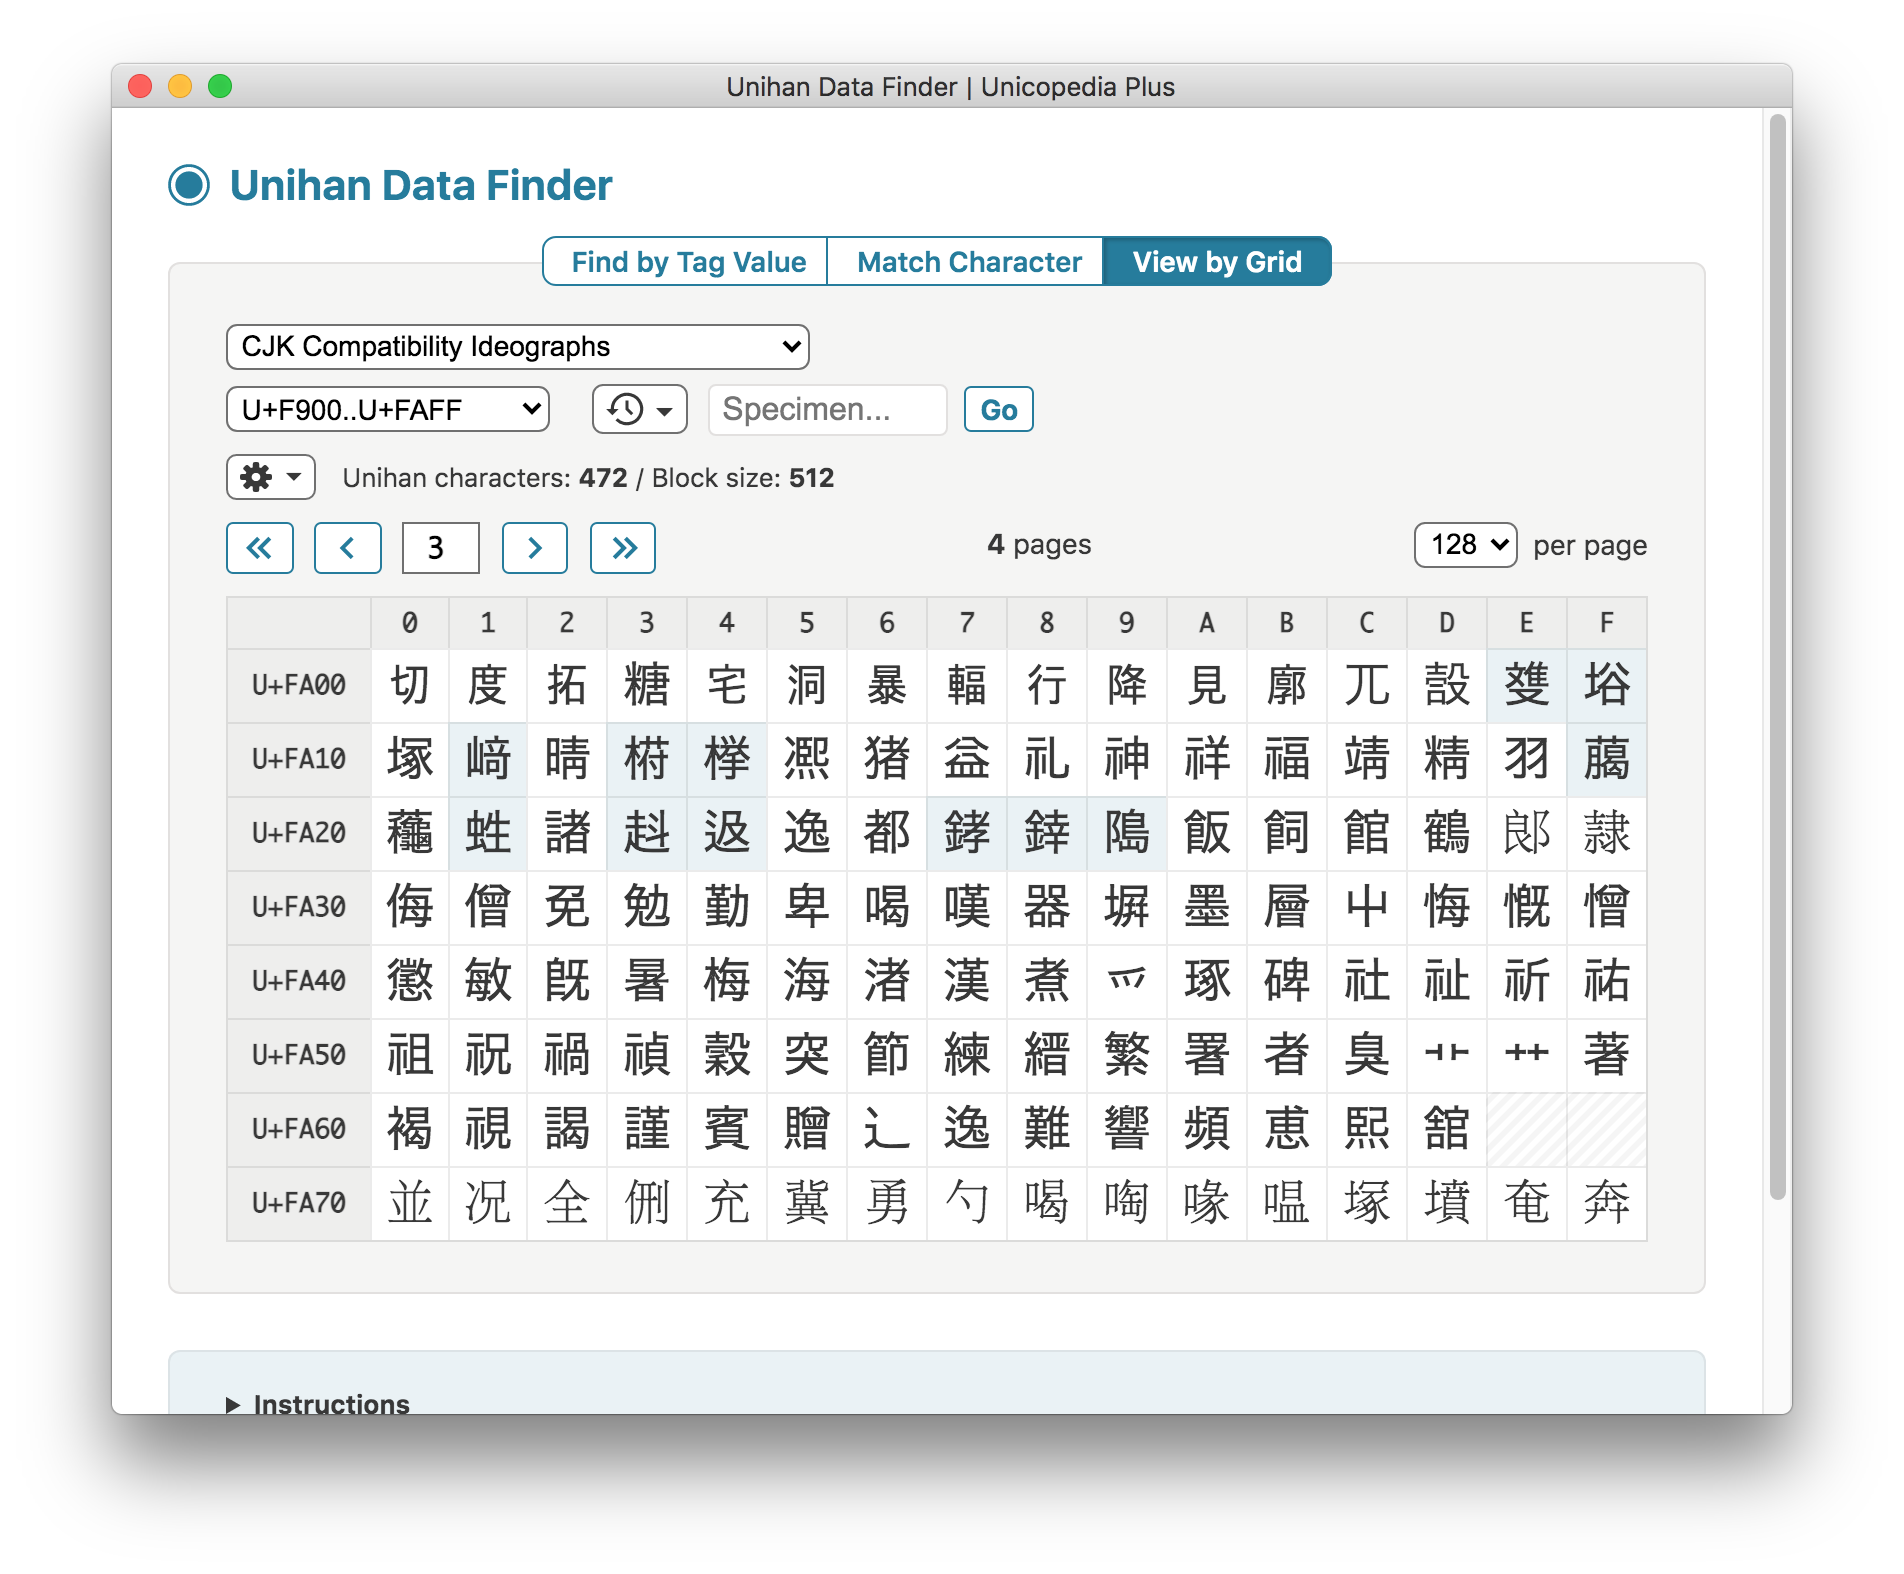
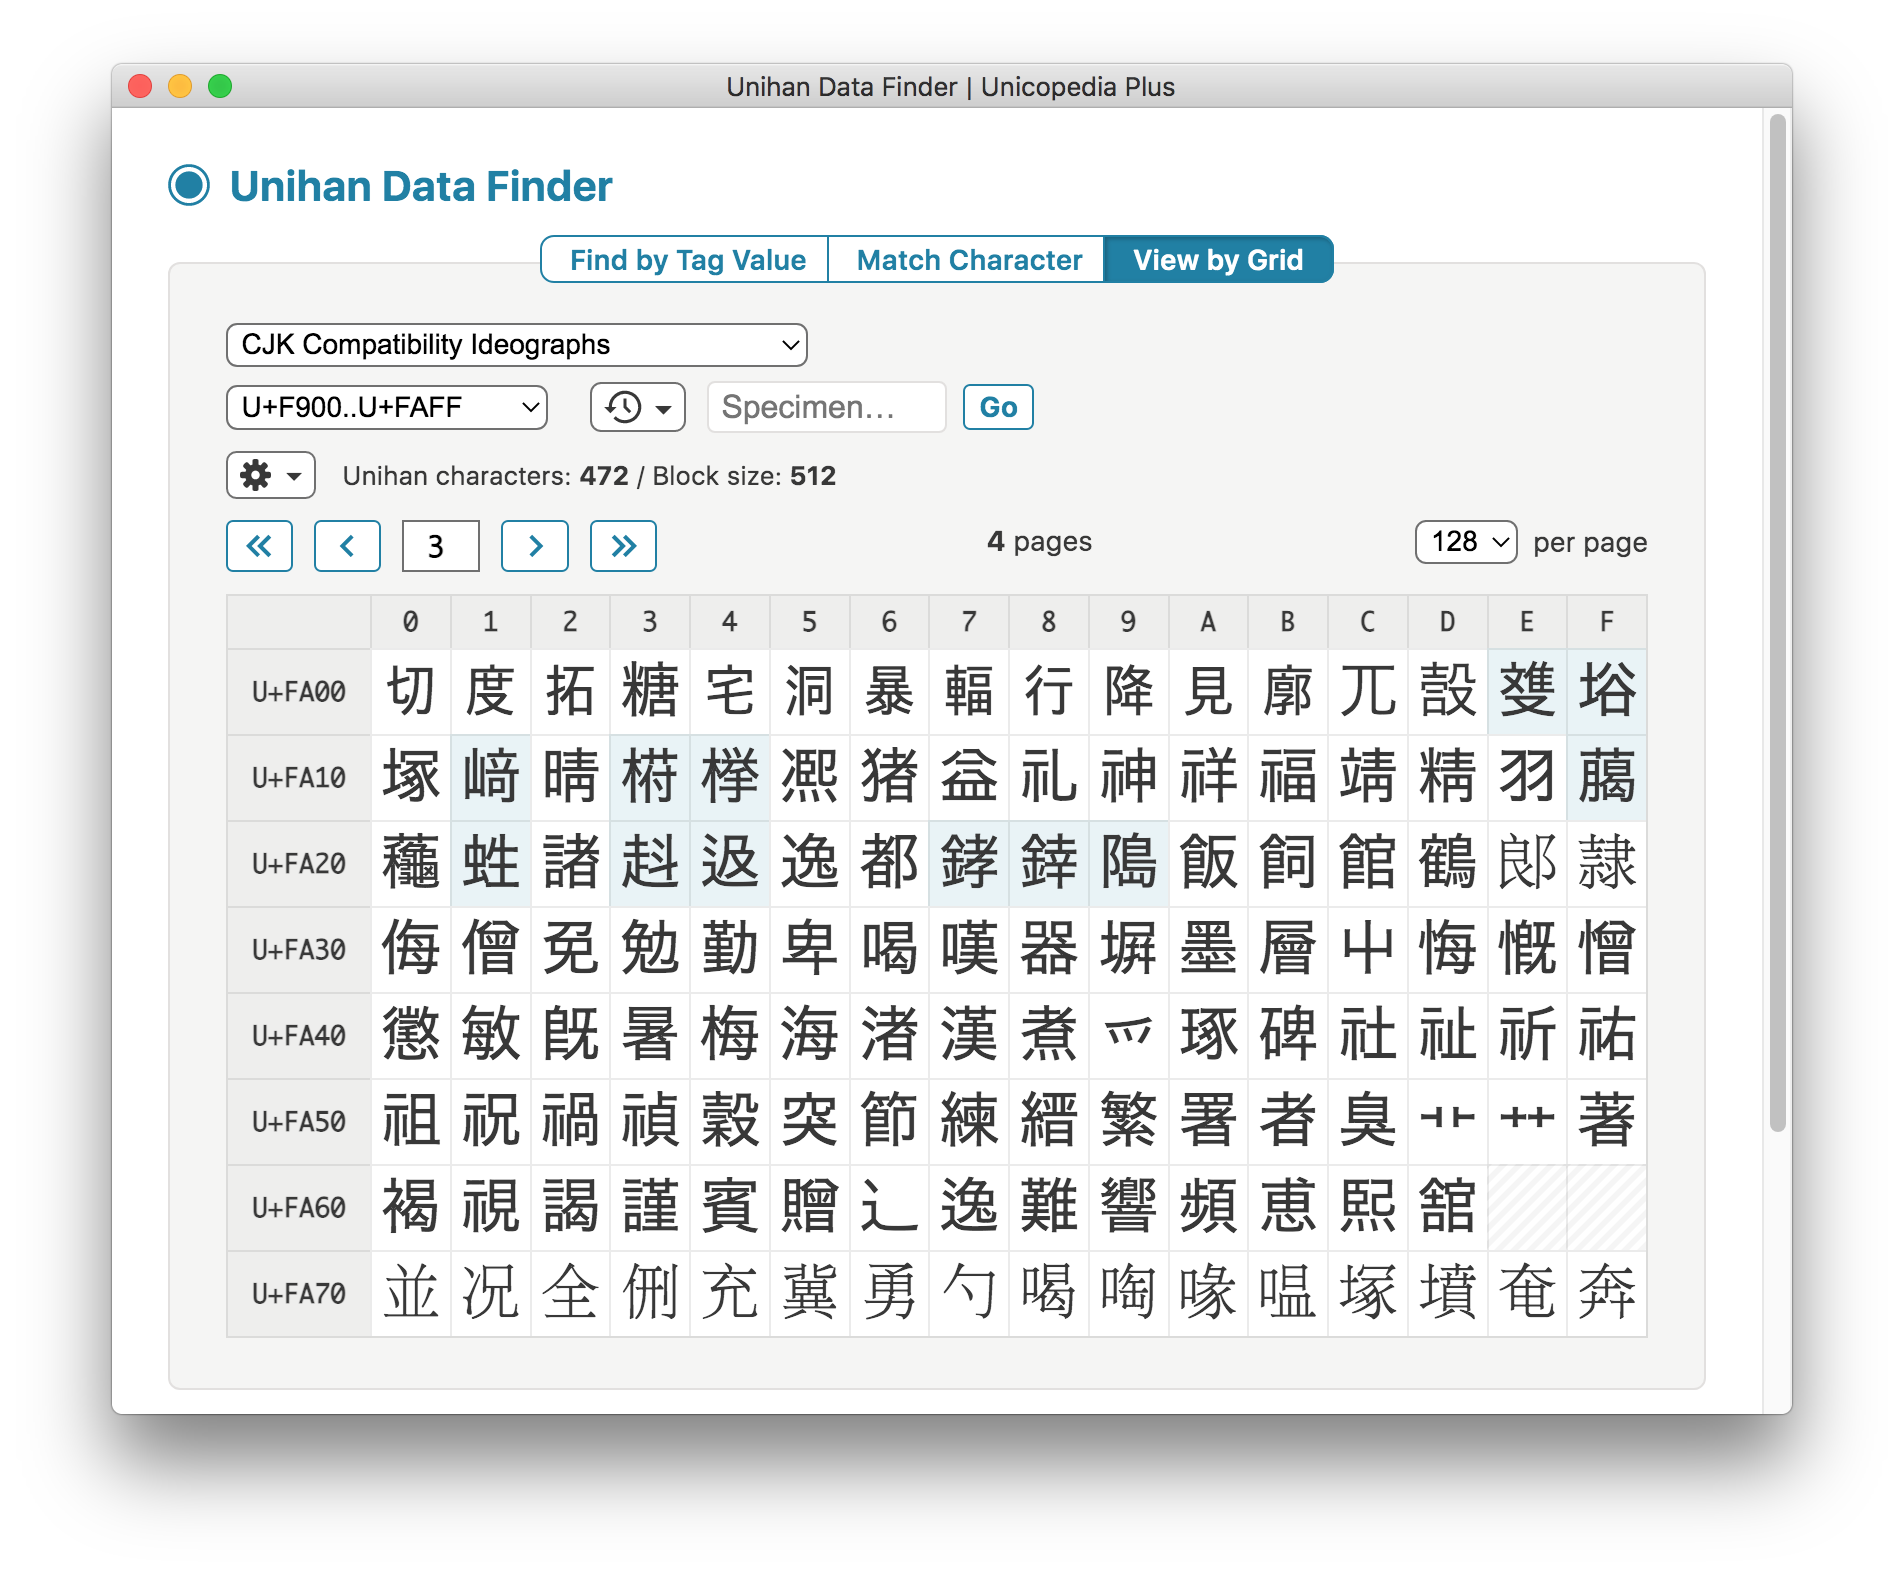
Updated app to 11.6.0

diff --git a/renderer/units/Unihan Data Finder/import.css b/renderer/units/Unihan Data Finder/import.css
@@ -572,7 +572,7 @@
 #unihan-data-finder-unit .view-by-grid .search-data td.symbol-cell .symbol
 {
     font-family: var(--unihan-family);
-    font-size: 24px;
+    font-size: 30px;
     line-height: 1em;
 }
 

diff --git a/CHANGES.md b/CHANGES.md
@@ -2,6 +2,12 @@
 
 This project adheres to [Semantic Versioning](https://semver.org/).
 
+## 11.6.0
+
+- Increased font size of Unihan characters in the **View by Grid** feature of the **Unihan Data Finder** utility.
+- Updated `Electron Packager` to version `15.5.1`.
+- Updated `Electron` to version `17.4.2`.
+
 ## 11.5.0
 
 - Fixed macOS context menu issue on control-click.
